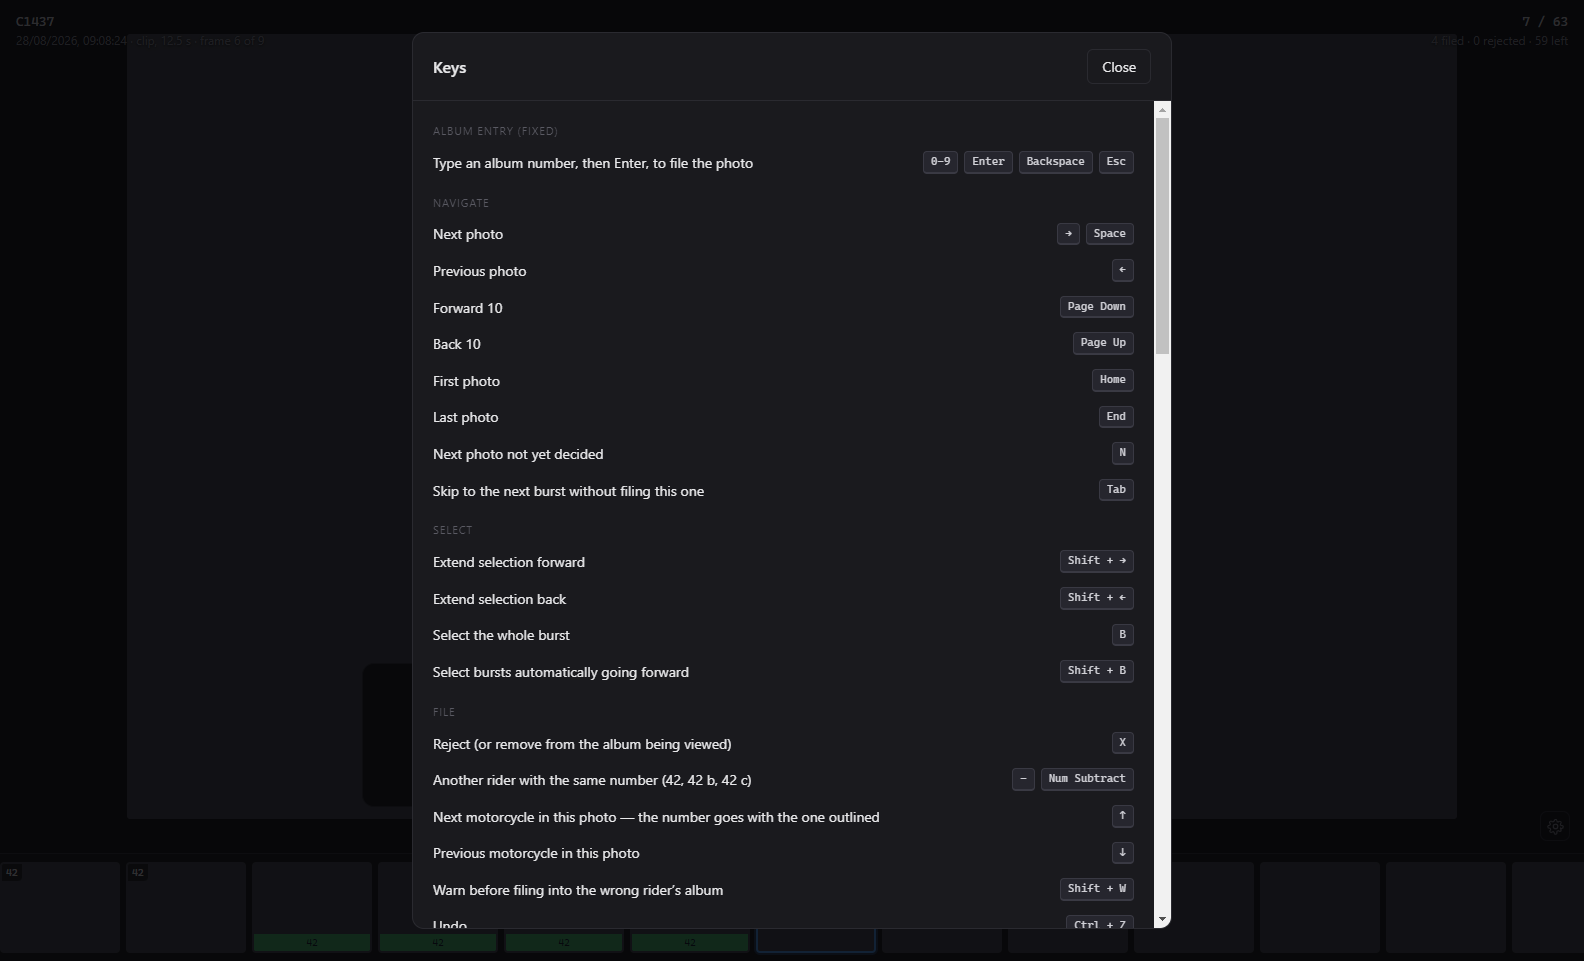
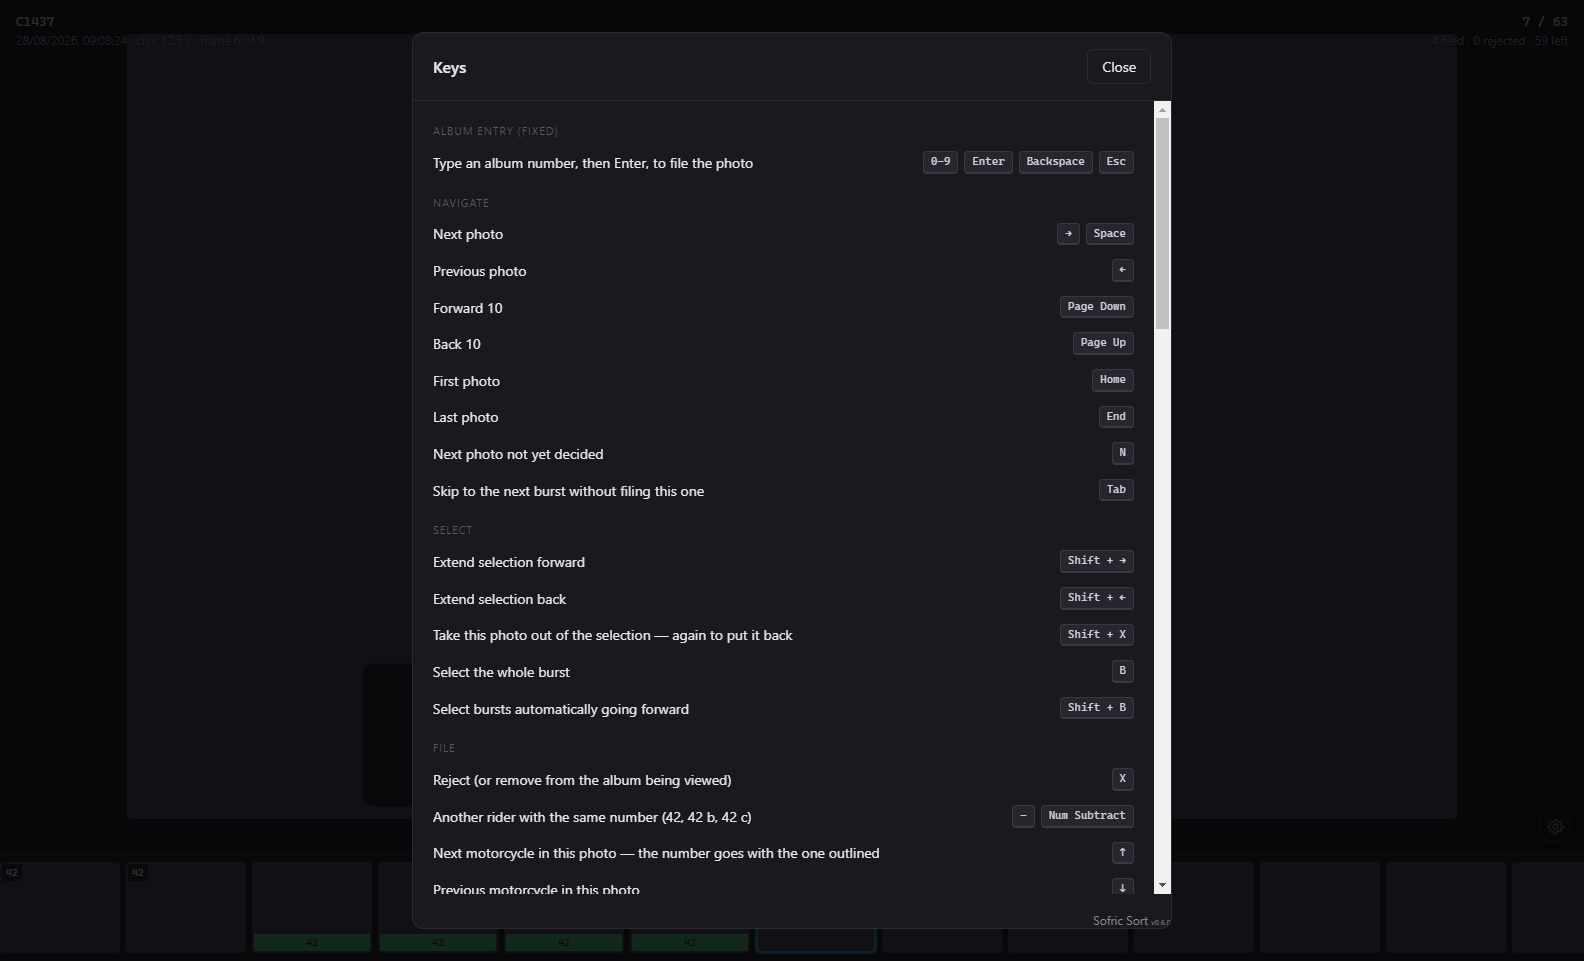
Update download page for v0.7.0

diff --git a/handbook.html b/handbook.html
@@ -240,6 +240,8 @@
         <h3 data-hr>Rafal se označi sam</h3>
         <p data-en>Step forward with <kbd>&rarr;</kbd>. When you land on the first frame of a burst — a rider going past, four or five frames firing — the whole run is selected for you, and you stay on that first frame, where the number is usually clearest. You never have to gather it by hand.</p>
         <p data-hr>Krećite se naprijed tipkom <kbd>&rarr;</kbd>. Kad dođete na prvu sliku rafala — vozač prolazi, okine se četiri ili pet slika — cijeli niz se označi sam, a vi ostajete na toj prvoj slici, na kojoj je broj obično najčitljiviji. Nikad ga ne morate skupljati ručno.</p>
+        <p data-en><kbd>&larr;</kbd> and <kbd>&rarr;</kbd> then go through the run <em>without losing it</em>, so you can look along the frames for one where the number is clear. <kbd>Shift</kbd>+<kbd>X</kbd> takes the photo you are on out of the run — for one that is soft, or where the bike is half out of the frame — and pressing it again puts it back. Stepping off either end of the run lets go of it, and so does <kbd>Esc</kbd>.</p>
+        <p data-hr><kbd>&larr;</kbd> i <kbd>&rarr;</kbd> zatim prolaze kroz niz <em>a da ga ne izgube</em>, pa možete pregledati slike i naći onu na kojoj je broj jasan. <kbd>Shift</kbd>+<kbd>X</kbd> izbacuje fotografiju na kojoj ste iz niza — za onu koja je mutna ili kojoj je motor napola izvan kadra — a ponovni pritisak vraća je natrag. Korak izvan bilo kojeg kraja niza pušta ga, kao i <kbd>Esc</kbd>.</p>
       </div>
     </li>
     <li>
@@ -306,6 +308,9 @@
 
   <p data-en><strong>Look at the pile before you name it.</strong> About one photo in forty arrives in a pile it does not belong to &mdash; another rider on a machine that looks much the same. <kbd>X</kbd> takes the photos you have selected out of the pile before it is filed, and <kbd>X</kbd> again puts one back, so taking one out by mistake costs nothing. Anything you take out is offered again at the end of the run. <kbd>Tab</kbd> passes over a pile without naming it, and <kbd>Esc</kbd> ends the pass.</p>
   <p data-hr><strong>Pogledajte hrpu prije nego što je imenujete.</strong> Otprilike jedna fotografija u četrdeset dođe u hrpu kojoj ne pripada &mdash; drugi vozač na motoru koji izgleda vrlo slično. <kbd>X</kbd> vadi označene fotografije iz hrpe prije spremanja, a ponovni <kbd>X</kbd> vraća ih natrag, pa izbacivanje zabunom ništa ne stoji. Sve što izvadite ponudi se ponovno na kraju prolaza. <kbd>Tab</kbd> preskače hrpu bez imenovanja, a <kbd>Esc</kbd> prekida prolaz.</p>
+
+  <p data-en><strong><kbd>B</kbd> goes to the biggest pile you have still to name,</strong> and pressing it again goes to the next biggest &mdash; the button above the grid does the same. That is how you come back to the big piles when naming has carried you off among the small ones: after you name a pile the app goes to whichever of the rest most resembles it, which is what puts the number in the box for you, but it can leave you a long way down the list while the biggest are still at the top waiting.</p>
+  <p data-hr><strong><kbd>B</kbd> vodi na najveću hrpu koju još niste imenovali,</strong> a ponovni pritisak na sljedeću najveću &mdash; gumb iznad mreže radi isto. Tako se vraćate na velike hrpe kad vas je imenovanje odvelo među male: nakon što imenujete hrpu, program ide na onu koja joj najviše sliči, zbog čega je broj već u okviru, ali vas to može odvesti daleko niz popis dok najveće još čekaju na vrhu.</p>
 
   <p data-en><strong>Every pile is listed down the left,</strong> the way your albums are in the album browser &mdash; its first photo, how many it holds, and what became of it. <kbd>PgUp</kbd> and <kbd>PgDn</kbd> go from one pile to the next, and clicking a pile goes straight to it, so one you passed over is always one click away. The list stays in the order the piles were worked out and never re-sorts itself; what moves is where you are in it. When you name a pile, the app jumps to whichever of the rest most resembles it &mdash; that is what puts the number in the box for you &mdash; and the list shows you where it went.</p>
   <p data-hr><strong>Sve su hrpe popisane lijevo,</strong> kao i vaši albumi u pregledniku albuma &mdash; prva fotografija, koliko ih sadrži i što je s njom bilo. <kbd>PgUp</kbd> i <kbd>PgDn</kbd> idu s jedne hrpe na sljedeću, a klik na hrpu vodi ravno na nju, pa je hrpa koju ste preskočili uvijek jedan klik daleko. Popis ostaje u redoslijedu kojim su hrpe složene i nikad se sam ne presloži; pomiče se samo mjesto na kojem ste. Kad imenujete hrpu, program skoči na onu koja joj najviše sliči &mdash; zbog toga je broj već u okviru &mdash; a popis pokazuje kamo je otišao.</p>
@@ -544,6 +549,9 @@
       <div class="row"><span class="combo"><kbd>Shift</kbd>+<kbd>B</kbd></span>
         <span class="what" data-en>Stop selecting bursts automatically &mdash; remembered between sessions</span>
         <span class="what" data-hr>Prestani automatski označavati rafale &mdash; pamti se između pokretanja</span></div>
+      <div class="row"><span class="combo"><kbd>Shift</kbd>+<kbd>X</kbd></span>
+        <span class="what" data-en>Take this photo out of the selection &mdash; again to put it back</span>
+        <span class="what" data-hr>Izbaci ovu fotografiju iz označenog &mdash; ponovno da je vratiš</span></div>
       <div class="row"><span class="combo"><kbd>Shift</kbd>+<kbd>&rarr;</kbd></span>
         <span class="what" data-en>Extend the selection forward &mdash; for when a burst was cut short</span>
         <span class="what" data-hr>Proširi označeno naprijed &mdash; kad je rafal prekratko odrezan</span></div>
@@ -667,6 +675,9 @@
       <div class="row"><span class="combo"><kbd>PgUp</kbd><kbd>PgDn</kbd></span>
         <span class="what" data-en>Previous or next pile &mdash; or click one in the list</span>
         <span class="what" data-hr>Prethodna ili sljedeća hrpa &mdash; ili kliknite jednu na popisu</span></div>
+      <div class="row"><span class="combo"><kbd>B</kbd></span>
+        <span class="what" data-en>On to the biggest pile still to name &mdash; or the button above the grid</span>
+        <span class="what" data-hr>Na najveću hrpu koja je još ostala &mdash; ili gumb iznad mreže</span></div>
       <div class="row"><span class="combo"><kbd>Tab</kbd></span>
         <span class="what" data-en>Pass over this pile &mdash; it stays on the list to come back to</span>
         <span class="what" data-hr>Preskoči ovu hrpu &mdash; ostaje na popisu da joj se vratite</span></div>
@@ -722,8 +733,8 @@
 
   <h2 data-en>Worth knowing</h2>
   <h2 data-hr>Dobro je znati</h2>
-  <p class="lede" data-en>Five things that will save you a puzzled minute.</p>
-  <p class="lede" data-hr>Pet stvari koje &#263;e vam u&#353;tedjeti minutu &#269;u&#273;enja.</p>
+  <p class="lede" data-en>Six things that will save you a puzzled minute.</p>
+  <p class="lede" data-hr>&#352;est stvari koje &#263;e vam u&#353;tedjeti minutu &#269;u&#273;enja.</p>
 
   <ul class="plain" data-en>
     <li><strong>Undo is safe.</strong> It deletes only files the app copied itself, and only in the albums folder you have open. A photo you put in an album by hand is never touched.</li>
@@ -731,6 +742,7 @@
     <li><strong>There is no zoom.</strong> This is a tool for deciding whose photo it is, not for judging whether it is sharp &mdash; which is why every photo appears instantly.</li>
     <li><strong>Clips and RAW files are newer than the rest.</strong> Both work, neither has sorted a real day&rsquo;s work yet, so check the first album of either.</li>
     <li><strong>Your computer will warn you once</strong> the first time you open the app, because it is not code-signed yet. After that, never again.</li>
+    <li><strong>If something looks wrong, say which version you are on.</strong> The number is beside the title on the screen the app opens on, and at the foot of the key list (<kbd>F1</kbd>).</li>
   </ul>
   <ul class="plain" data-hr>
     <li><strong>Poni&#353;tavanje je sigurno.</strong> Bri&#353;e samo datoteke koje je program sam kopirao, i to samo u mapi s albumima koju imate otvorenu. Fotografija koju ste ru&#269;no stavili u album nikad se ne dira.</li>
@@ -738,6 +750,7 @@
     <li><strong>Nema pove&#263;avanja.</strong> Ovo je alat za odlu&#269;ivanje &#269;ija je fotografija, ne za procjenu o&#353;trine &mdash; upravo zato se svaka prikazuje odmah.</li>
     <li><strong>Isje&#269;ci i RAW datoteke noviji su od ostaloga.</strong> Oboje radi, ali nijedno jo&#353; nije razvrstalo pravi radni dan, pa provjerite prvi album.</li>
     <li><strong>Ra&#269;unalo &#263;e vas jednom upozoriti</strong> pri prvom otvaranju programa, jer jo&#353; nije digitalno potpisan. Nakon toga vi&#353;e nikad.</li>
+    <li><strong>Ako ne&#353;to izgleda krivo, recite koju verziju imate.</strong> Broj stoji uz naslov na zaslonu s kojim se program otvara i na dnu popisa tipki (<kbd>F1</kbd>).</li>
   </ul>
 
   <footer class="end">
